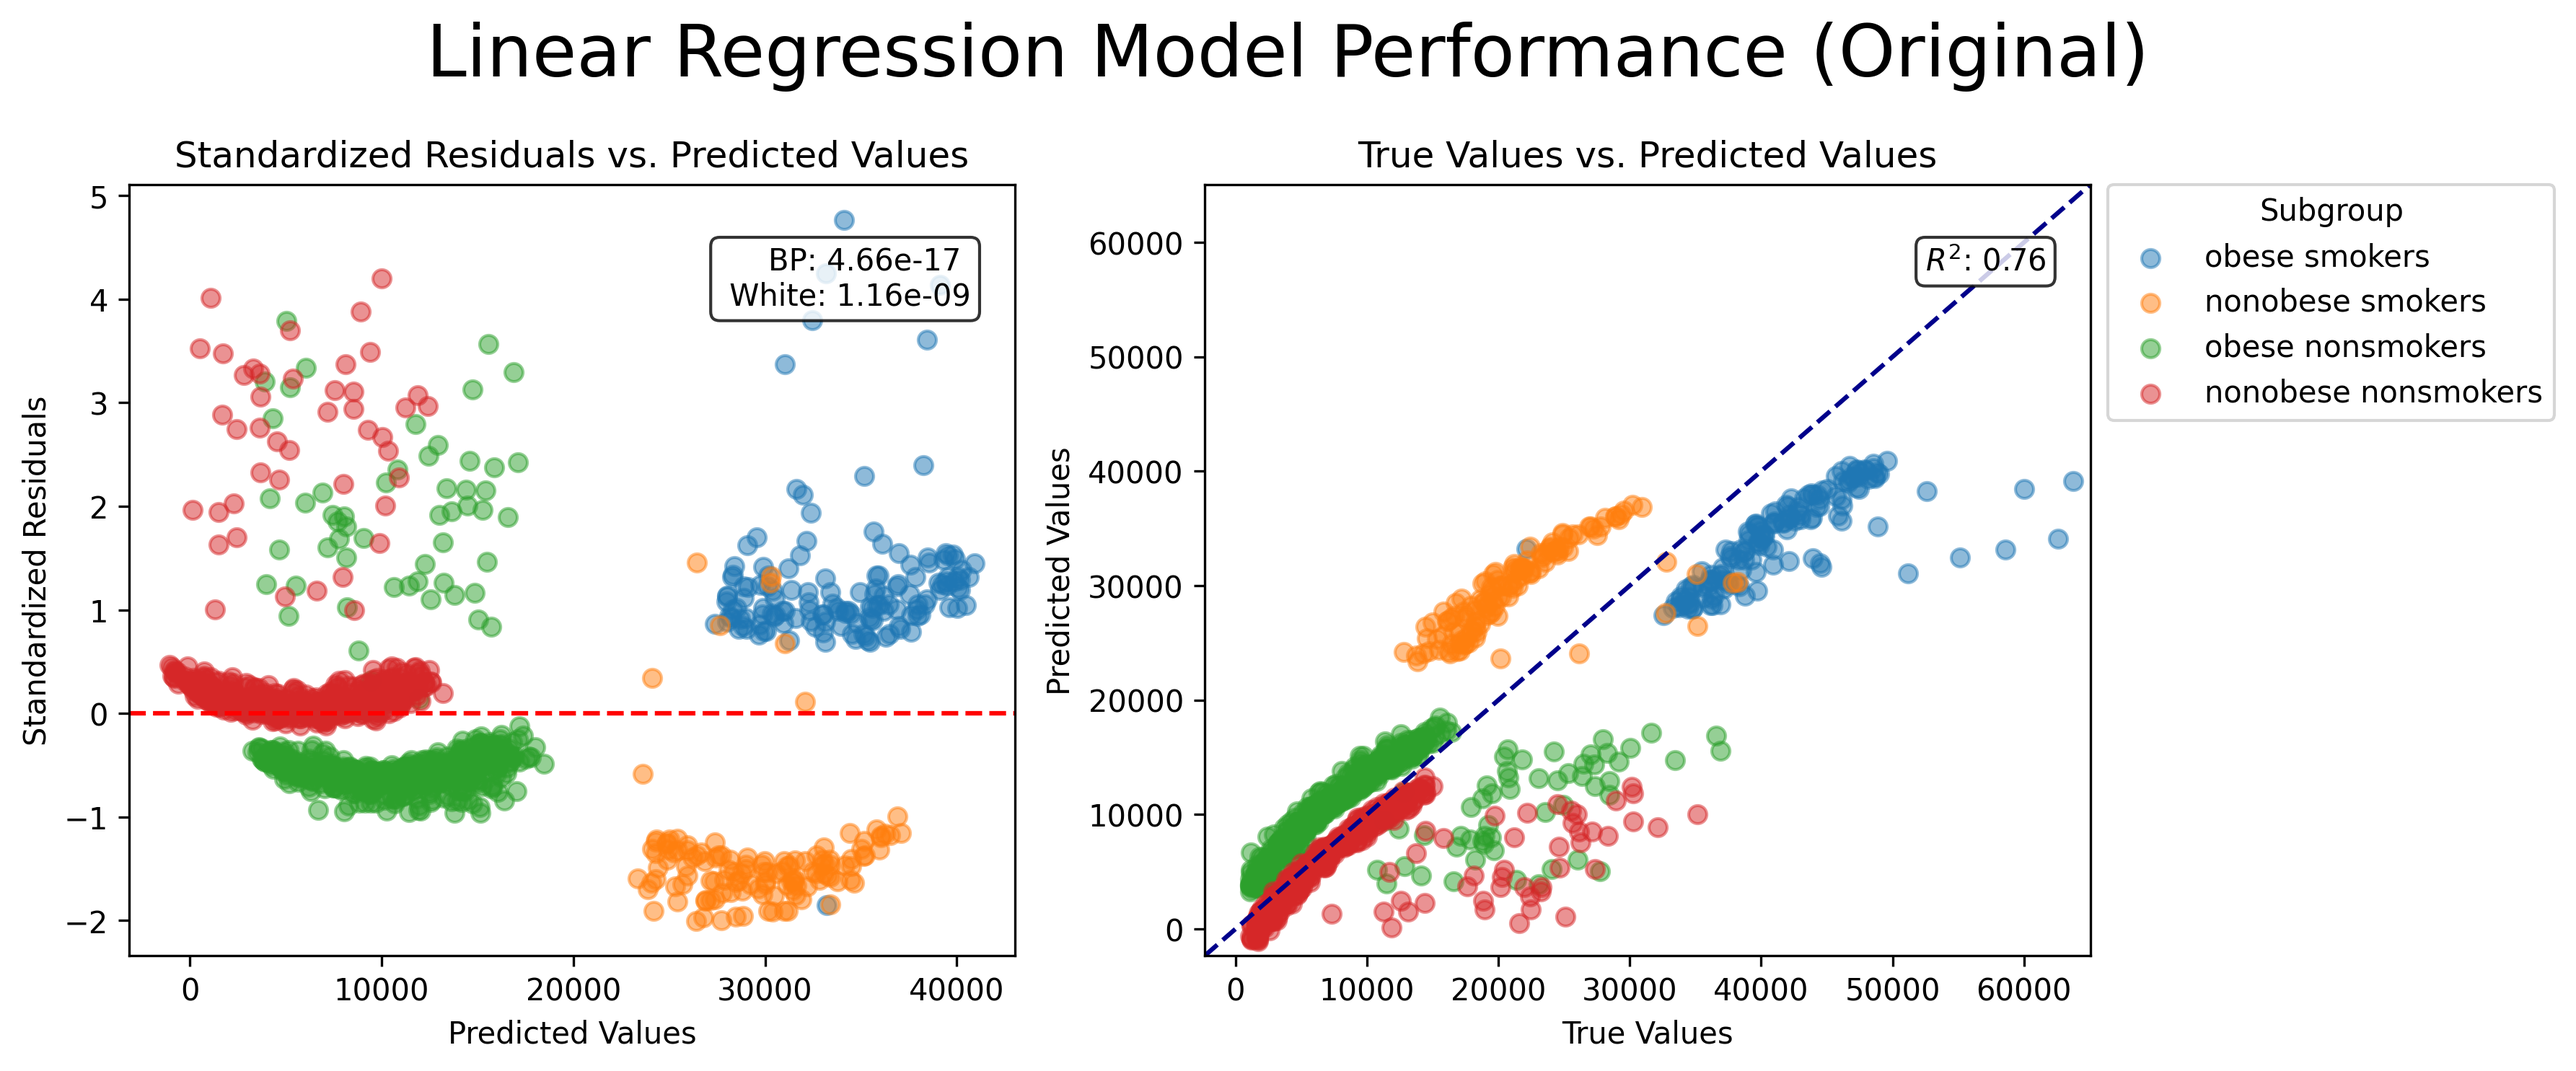
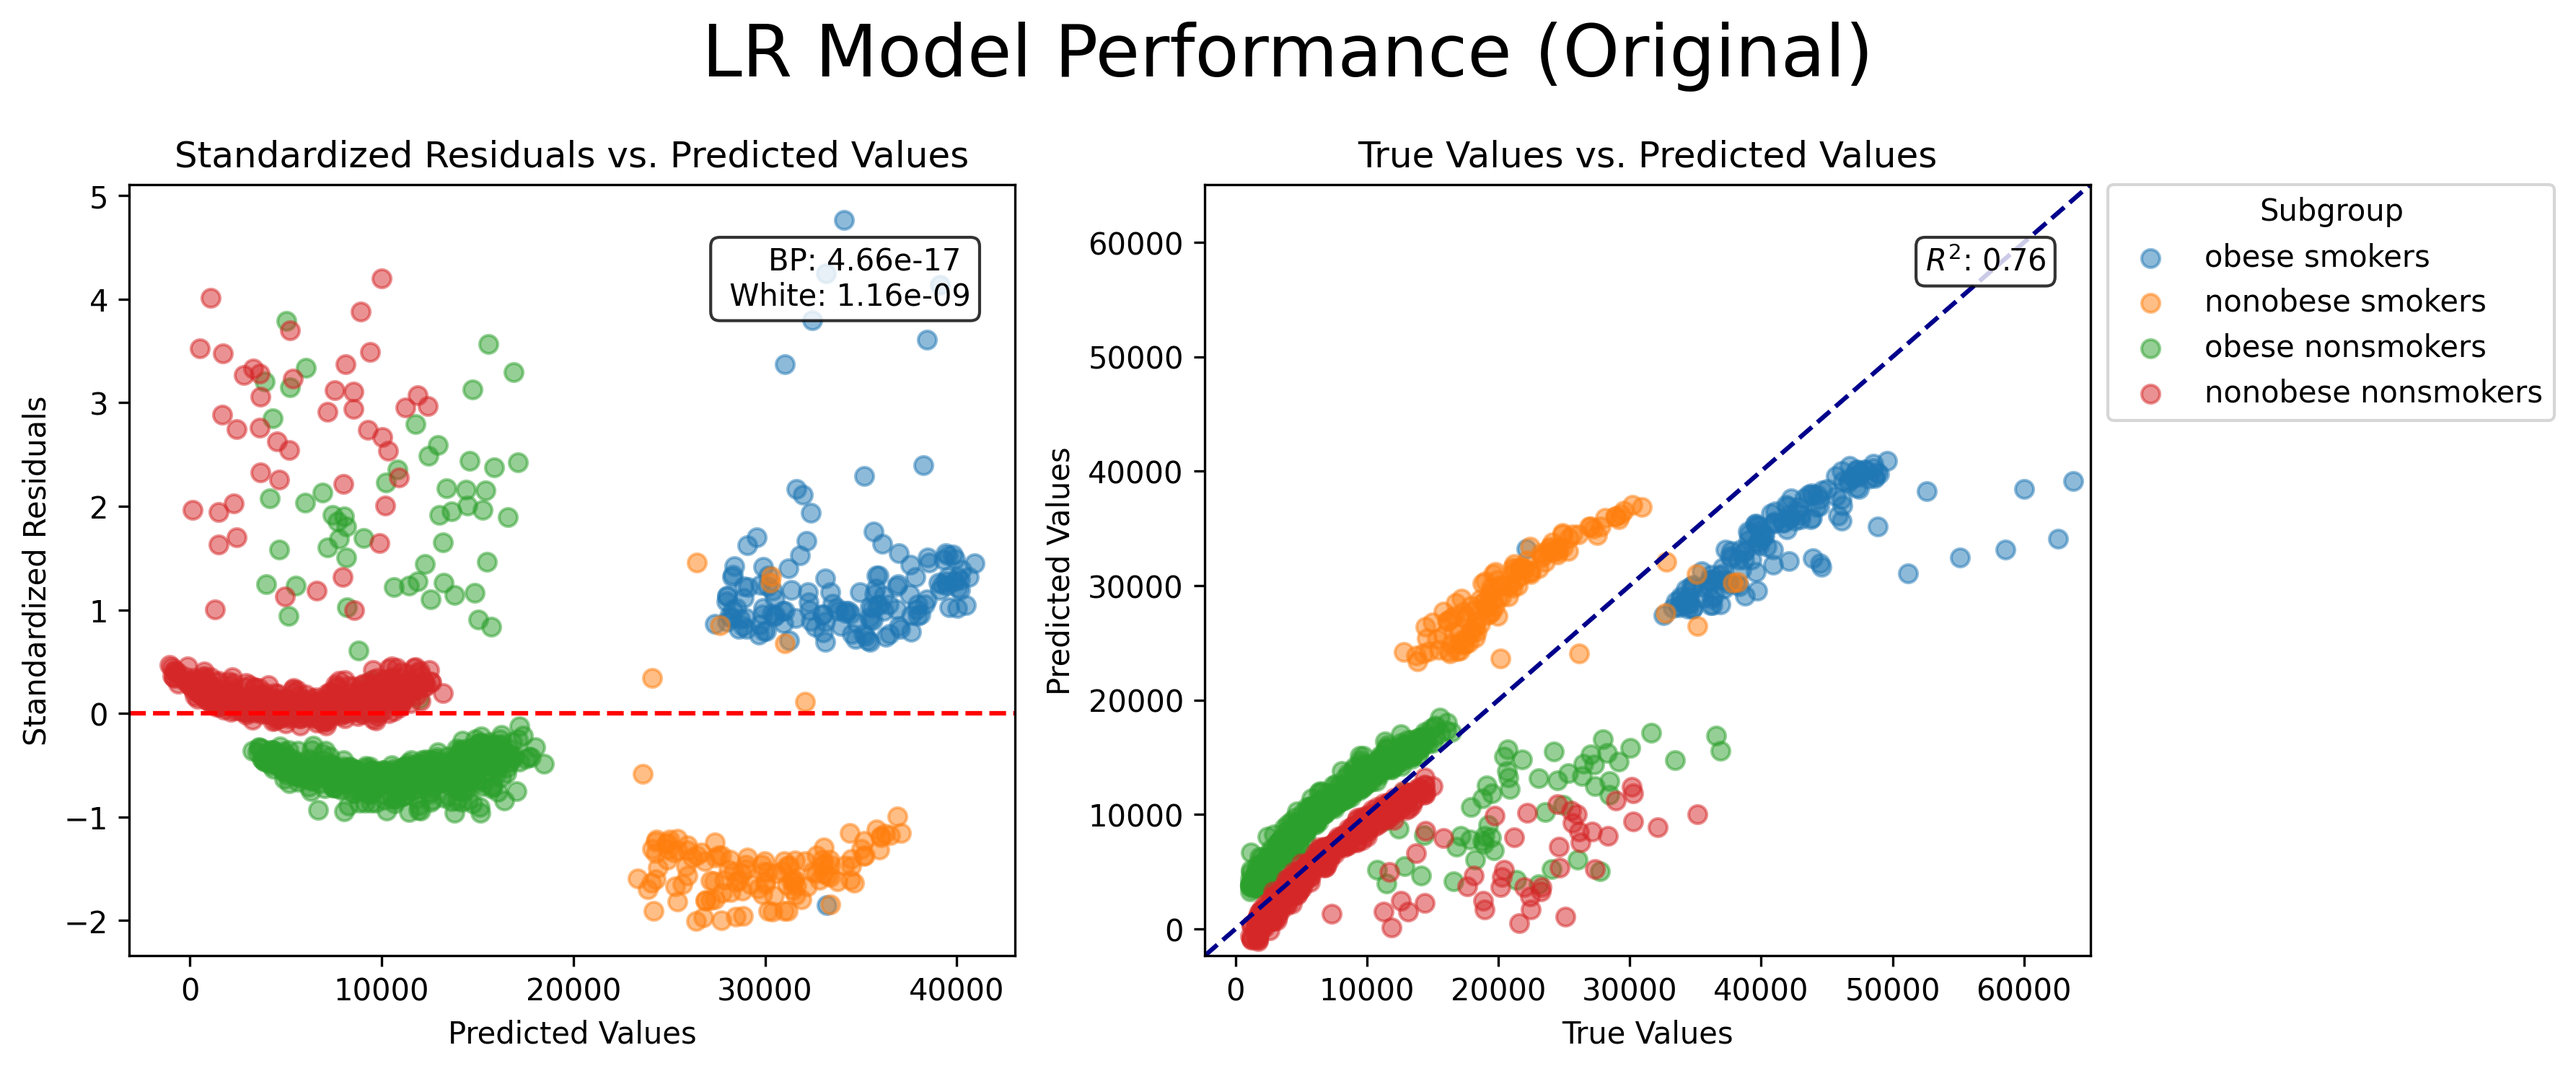
new plot

Changed region(s): [[0.1554, 0.0, 0.8393, 0.0929]]

diff --git a/cost_modeling.py b/cost_modeling.py
@@ -341,7 +341,7 @@ def sm_lr_model_results(lr_model, y, y_pred, combine_plots=False, save_img=False
     if not combine_plots: plt.show()
     
     if combine_plots:
-        fig.suptitle('Linear Regression Model Performance', fontsize=24)
+        fig.suptitle('LR Model Performance', fontsize=24)
         fig.tight_layout(h_pad=2) # Increase spacing between plots to minimize text overlap
         if save_img:
             save_filename = 'sm_lr_results_' + filename_unique
@@ -425,7 +425,7 @@ def sm_lr_model_results_subgrouped(lr_model, orig_dataset, y, y_pred, plot_title
     ax2.text(0.95, 0.92, textbox_text, bbox=box_style, transform=ax2.transAxes, verticalalignment='top', horizontalalignment='right') 
     
     # Format and save figure
-    fig.suptitle('Linear Regression Model Performance (' + plot_title + ')', fontsize=24)
+    fig.suptitle('LR Model Performance (' + plot_title + ')', fontsize=24)
     fig.tight_layout(h_pad=2) # Increase spacing between plots to minimize text overlap
     if save_img:
         save_filename = 'sm_lr_results_' + filename_unique
@@ -436,13 +436,17 @@ def sm_lr_model_results_subgrouped(lr_model, orig_dataset, y, y_pred, plot_title
     return het_metrics
 
 # Combine statsmodels linear regression model creation, fitting, and returning results    
-def fit_ols_test_heteroscedasticity(fxn_X, fxn_y, orig_dataset, plot_title):
+def fit_lr_model_results_subgrouped(fxn_X, fxn_y, orig_dataset, plot_title, save_img=False, filename_unique=None):
+    # Fit model
     fxn_lin_reg = sm.OLS(fxn_y, fxn_X).fit()
+    
+    # Predict target
     fxn_y_pred = fxn_lin_reg.predict(fxn_X) 
     
-    fxn_white_test_results, fxn_bp_test_results = subgroup_quantify_heteroscedasticity(fxn_lin_reg, orig_dataset, fxn_y_pred, fxn_y, plot_title)
+    #fxn_white_test_results, fxn_bp_test_results = subgroup_quantify_heteroscedasticity(fxn_lin_reg, orig_dataset, fxn_y_pred, fxn_y, plot_title)
+    het_results = sm_lr_model_results_subgrouped(fxn_lin_reg, orig_dataset, fxn_y, fxn_y_pred, plot_title, save_img=save_img, filename_unique=filename_unique)
     
-    return fxn_lin_reg, fxn_y_pred, fxn_white_test_results, fxn_bp_test_results
+    return fxn_lin_reg, fxn_y_pred, het_results
 
 # Convert statsmodels summary() output to pandas DataFrame
 def sm_results_to_df(summary):
@@ -479,6 +483,49 @@ def sm_results_to_df(summary):
 y = dataset['charges']
 X = dataset.drop(['charges'], axis=1)
 
+# This is to test for linear model assumptions in entire data set, will not perform train/test split
+sm_processed_X = manual_preprocess_sm(X)
+
+# Add constant (required for statsmodels linear regression model)
+sm_processed_X = sm.add_constant(sm_processed_X)
+
+# Fit linear regression model
+sm_lin_reg = sm.OLS(y, sm_processed_X).fit()
+
+# Make predictions
+sm_y_pred = sm_lin_reg.predict(sm_processed_X)
+
+# Plot model performance
+het_metrics = sm_lr_model_results(sm_lin_reg, y, sm_y_pred, combine_plots=True, save_img=True, filename_unique='original')
+
+# Plot model performance, subgrouped by smoking and obesity
+title_1 = 'Original'   
+het_metrics_1 = sm_lr_model_results_subgrouped(sm_lin_reg, dataset, y, sm_y_pred, title_1, save_img=True, filename_unique='orig_subgrouped')
+
+# =======================================================================================
+# Test for linear relationships between predictors and target variables
+# =======================================================================================
+
+# This analysis was done in the EDA section. Will explain findings here.
+
+# =============================
+# BMI vs. Charges
+# =============================
+
+# Smokers had a strong linear relationship between BMI and charges, nonsmokers had basically no linear relationhip
+# Will engineer new feature [smoker*bmi] which essentially removes the bmi data of the nonsmokers and retains the bmi
+# data of the smokers. 
+
+new_X_2 = sm_processed_X.copy()
+new_X_2['bmi*smoker'] = new_X_2['smoker_yes'] * new_X_2['bmi']
+title_2 = 'w [bmi*smoker] feature'
+sm_lin_reg_2, sm_y_pred_2, het_results_2 = fit_lr_model_results_subgrouped(new_X_2, y, dataset, title_2, save_img=False, filename_unique='smoke_bmi_feature')
+summary_df_2 = sm_results_to_df(sm_lin_reg_2.summary())
+
+# Tried removing original 'bmi' feature, slightly worsened model performance
+#new_X_2_1 = new_X_2.drop(['bmi'], axis=1)
+#sm_lin_reg_2_1, sm_y_pred_2_1, het_results_2_1 = fit_lr_model_results_subgrouped(new_X_2_1, y, dataset, 'drop bmi', save_img=True, filename_unique='drop_bmi')
+
 # =======================================================================================
 # Test for multicollinearity
 # =======================================================================================
@@ -493,25 +540,7 @@ plt.scatter(smoker_dataset['bmi'], smoker_dataset['age'])
 # =======================================================================================
 # Statsmodels analysis
 # =======================================================================================
-# This is to test for linear model assumptions in entire data set, will not perform train/test split
-sm_processed_X = manual_preprocess_sm(X)
 
-# Add constant (required for statsmodels linear regression model)
-sm_processed_X = sm.add_constant(sm_processed_X)
-
-# Fit linear regression model
-sm_lin_reg = sm.OLS(y, sm_processed_X).fit()
-
-# Make predictions
-sm_y_pred = sm_lin_reg.predict(sm_processed_X)
-sm_y_pred.name = 'y_pred'
-
-# Plot model performance
-het_metrics = sm_lr_model_results(sm_lin_reg, y, sm_y_pred, combine_plots=True, save_img=True, filename_unique='original')
-
-# Plot model performance, subgrouped by smoking and obesity
-title_1 = 'Original'   
-het_metrics_1 = sm_lr_model_results_subgrouped(sm_lin_reg, dataset, y, sm_y_pred, title_1, save_img=False, filename_unique='orig_subgrouped')
 
 # =============================
 # Quantify Heteroscedasticity
@@ -560,7 +589,7 @@ sm_lin_reg.rsquared
 # Which makes sense given the BMI vs. charge scatterplot
 new_X_2 = sm_processed_X.copy()
 new_X_2['bmi*smoker'] = new_X_2['smoker_yes'] * new_X_2['bmi']
-title_2 = 'w [bmi*smoker] Feature'
+title_2 = 'w [bmi*smoker] feature'
 
 sm_lin_reg_2, sm_y_pred_2, white_test_results_2, bp_test_results_2 = fit_ols_test_heteroscedasticity(new_X_2, y, dataset, title_2)
 summary_df_2 = sm_results_to_df(sm_lin_reg_2.summary())

diff --git a/cost_eda.py b/cost_eda.py
@@ -366,6 +366,8 @@ for col in numerical_cols:
         textbox_text = "Pearson's r = %0.2f" %pearsons[col].loc['charges']
     plt.text(0.95, 0.92, textbox_text, bbox=box_style, transform=ax.transAxes, 
              verticalalignment='top', horizontalalignment='right')
+    save_filename = f'lmplot_{col}_vs_charges'
+    save_image(output_dir, save_filename, bbox_inches='tight')
 
 # Numerical data relationships with target (regplots, because you can't add lmplots to gridspec)
 pearsons = dataset.corr(method='pearson').round(2)
